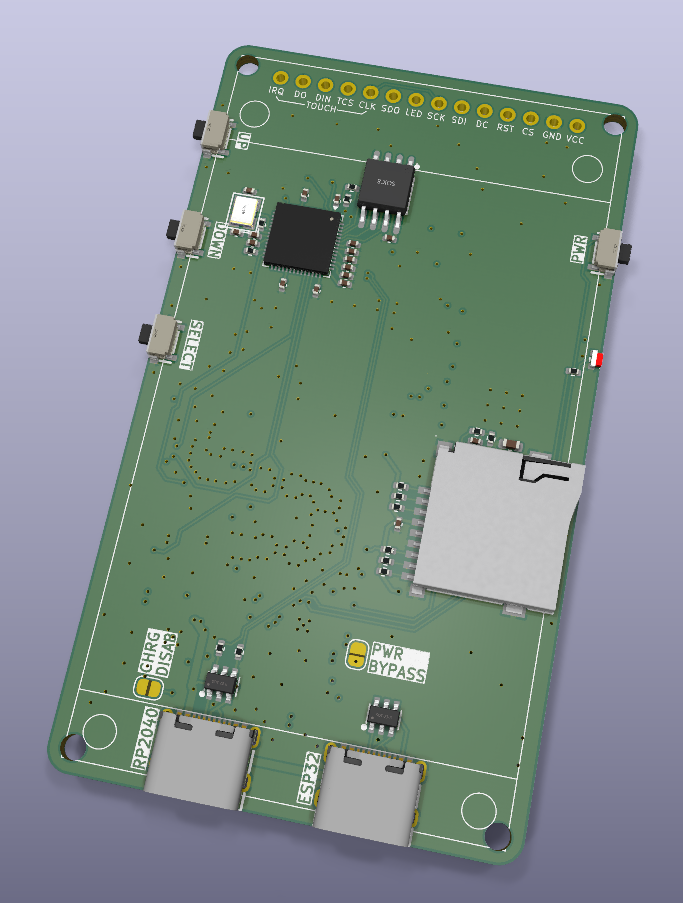
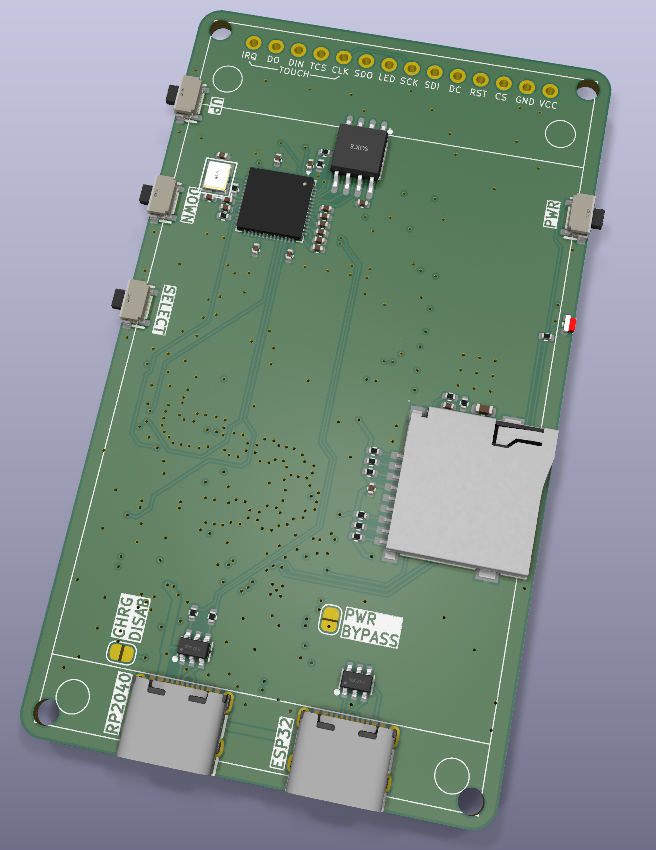
done?

diff --git a/README.md b/README.md
@@ -17,7 +17,7 @@ The RFly One has a 2.4" TFT display to show nearby air traffic on an offline map
 ### Features
 * **Awareness Protocols:** ADS-B, FLARM AIR V7, OGNTP, FANET+, RemoteID
 * **Positioning:** GNSS, Gyro, Accelerometer, Magnetometer
-* **Storage:** MicroSD Card (For offline maps)
+* **Storage:** MicroSD Card (For offline maps and flight logging)
 * **Charging:** 2A Max
 
 ### Hardware
@@ -31,18 +31,41 @@ The RFly One has a 2.4" TFT display to show nearby air traffic on an offline map
 * **Display:** 2.4" TFT
 
 ## Pinout
-| Header | Pin name | MCU Pin | Description |
+| Feature | Pin name | ESP32 Pin | Description |
 |---|---|---|---|
-| **[PLACEHOLDER]** | `[PLACEHOLDER]` | `[PLACEHOLDER]` | `[PLACEHOLDER]` |
-| **[PLACEHOLDER]** | `[PLACEHOLDER]` | `[PLACEHOLDER]` | `[PLACEHOLDER]` |
-| **[PLACEHOLDER]** | `[PLACEHOLDER]` | `[PLACEHOLDER]` | `[PLACEHOLDER]` |
-
+| **LCD** | `LCD_MOSI` | `GPIO 42` | SPI MOSI |
+| | `LCD_MISO` | `GPIO 39` | SPI MISO |
+| | `LCD_SCK` | `GPIO 41` | SPI Clock |
+| | `LCD_CS` | `GPIO 44` | SPI Chip Select |
+| | `LCD_LED` | `GPIO 40` | Backlight Control |
+| | `LCD_CMD` | `GPIO 43` | LCD Command |
+| **IMU** | `SDA` | `GPIO 36` | I2C Data |
+| | `SCL` | `GPIO 35` | I2C Clock |
+| **SD Card** | `SDIO_DAT0` | `GPIO 9` | Data 0 |
+| | `SDIO_DAT1` | `GPIO 8` | Data 1 |
+| | `SDIO_DAT2` | `GPIO 12` | Data 2 |
+| | `SDIO_DAT3` | `GPIO 13` | Data 3 |
+| | `SDIO_CMD` | `GPIO 11` | SD Command |
+| | `SDIO_CD` | `GPIO 7` | SD Detect |
+| | `SDIO_CLK` | `GPIO 10` | SD Clock |
+| **LoRa Radio** | `LORA_MOSI` | `GPIO 2` | SPI MOSI |
+| | `LORA_MISO` | `GPIO 1` | SPI MISO |
+| | `LORA_SCK` | `GPIO 4` | SPI Clock |
+| | `LORA_CE` | `GPIO 5` | SPI Chip Enable |
+| | `LORA_BUSY` | `GPIO 16` | Radio Busy |
+| **GNSS Module** | `GNSS_TX` | `GPIO 15` | UART RX |
+| | `GNSS_RX` | `GPIO 14` | UART TX |
+| | `PPS` | `GPIO 17` | GNSS Time |
+| **Button/Power Control** | `CH32_TX` | `GPIO 21` | UART RX |
+| | `CH32_RX` | `GPIO 18` | UART TX |
+| | `BATT_ADC` | `GPIO 6` | ADC1 |
+| **ADSB Decoder** | `RP_TX` | `GPIO 47` | UART RX |
+| | `RP_RX` | `GPIO 48` | UART TX |
+| | `ADSB_CLK` | `GPIO 34` | Extracted Clock From ADSB Signal |
 
 ----
 
 ## Hardware Overview
-
-### RFly One Mainboard
 ![image](assets/Schematic.png)
 <img src="assets/LayoutL1.png" width="300">
 <img src="assets/LayoutL2.png" width="300">
@@ -51,24 +74,28 @@ The RFly One has a 2.4" TFT display to show nearby air traffic on an offline map
 
 ----
 
-## Firmware Compilation & Flashing
-
-> [!IMPORTANT]
-> The software build process relies on separate firmware targets for the RP2040 (handling UI, Map rendering, and ADS-B decoding) and the CH32V003 (handling power state and buttons). 
+## Firmware
 
 ### Building the RP2040 Firmware
-1. `[PLACEHOLDER - Clone repository instructions]`
-2. `[PLACEHOLDER - CMake and build instructions]`
-3. `[PLACEHOLDER - Output file location]`
+1. Clone [this repository](https://github.com/YeetTheAnson/RFly-One) and enter the directory `cd RFly-One`
+2. Open the `/firmware/source/rp2040.ino` file in ArduinoIDE
+3. Paste `https://github.com/earlephilhower/arduino-pico/releases/download/global/package_rp2040_index.json` into `File > Preferences > Additional boards manager URLs`
+4. Go to boards manager and install `Raspberry Pi Pico/RP2040/RP2350` by Earle F. Philhower, III
+5. Click the upload button or `Sketch > Export Compiled Binary`
 
 ### Building the CH32V003 Firmware
-1. `[PLACEHOLDER - Clone repository instructions]`
-2. `[PLACEHOLDER - Toolchain requirements]`
-3. `[PLACEHOLDER - Build commands]`
+1. Clone [this repository](https://github.com/YeetTheAnson/RFly-One) and enter the directory `cd RFly-One`
+2. Open the `/firmware/source/ch32v003.ino` file in ArduinoIDE
+3. Paste `https://alexandermandera.github.io/arduino-wch32v003/package_ch32v003_index.json` into `File > Preferences > Additional boards manager URLs`
+4. Go to boards manager and install `WCH Boards` by Alexander Mandera
+5. Click the upload button or `Sketch > Export Compiled Binary`
 
-### Flashing the Device
-1. **RP2040:** `[PLACEHOLDER - BOOTSEL instructions for UF2 drag-and-drop]`
-2. **CH32V003:** `[PLACEHOLDER - WCH-LinkE or SWD flashing instructions]`
+### Building the ESP32S3 Firmware
+1. Clone [this repository](https://github.com/YeetTheAnson/RFly-One) and enter the directory `cd RFly-One`
+2. Open the `/firmware/source/esp32.ino` file in ArduinoIDE
+3. Paste `https://espressif.github.io/arduino-esp32/package_esp32_index.json` into `File > Preferences > Additional boards manager URLs`
+4. Go to boards manager and install `ESP32` by Espressif
+5. Click the upload button or `Sketch > Export Compiled Binary`
 
 ----
 
@@ -84,6 +111,11 @@ The RFly One has a 2.4" TFT display to show nearby air traffic on an offline map
 * **Fasteners:** 4x M2 10mm Self Tapping Screws
 * **Battery:** Generic 500mAh LiPo battery (Size of battery is your choice)
 * **SD Card:** Generic micro SD Card
+* **Antennae:**
+    - 2x 2400MHz FPC Antenna
+    - 1x 1090MHz FPC Antenna
+    - 1x 900MHz FPC Antenna
+    - 1x Active GPS Ceramic Antenna
 
 ### Assembly Instructions
 1. Slide the 3d printed parts `TopCase1.stl` and `TopCase2.stl` into place underneath the TFT LCD board.
@@ -93,7 +125,7 @@ The RFly One has a 2.4" TFT display to show nearby air traffic on an offline map
 
 2. Attach the battery using double sided adhesives and solder the battery cable onto the dedicated pad. Then connect the 2.4GHz WiFi antenna, 2.4GHz LoRa antenna, 1090MHz ADSB antenna and 900MHz LoRa antenna, and secure the FPC antennae to `BottomCase.stl` using double sided adhesives.
 
-<img src="assets/step2a.png" width="300">
+<img src="assets/step2.png" width="300">
 
 3. Feed the GNSS antenana cable through the `BottomCase.stl` cutout and glue the antenna to the bottom case. Then connect the GNSS antenna connector to the PCB and close the case.
 
@@ -110,14 +142,53 @@ The RFly One has a 2.4" TFT display to show nearby air traffic on an offline map
 
 | Category | Item Name | Description | Link | Vendor | Quantity | Total Price (USD) |
 |---|---|---|---|---|---:|---:|
-| Core MCU | RP2040 | Main coprocessor | `[PLACEHOLDER]` | `[PLACEHOLDER]` | 1 | `[PLACEHOLDER]` |
-| Core MCU | CH32V003 | Power management MCU | `[PLACEHOLDER]` | `[PLACEHOLDER]` | 1 | `[PLACEHOLDER]` |
-| Radio | E80-900M2212S | LR2021 LoRa module | `[PLACEHOLDER]` | `[PLACEHOLDER]` | 1 | `[PLACEHOLDER]` |
-| Location | ATGM332D-5N31 | GNSS Module | `[PLACEHOLDER]` | `[PLACEHOLDER]` | 1 | `[PLACEHOLDER]` |
-| Sensor | BMI270 | IMU | `[PLACEHOLDER]` | `[PLACEHOLDER]` | 1 | `[PLACEHOLDER]` |
-| Sensor | MMC5983MA | Magnetometer | `[PLACEHOLDER]` | `[PLACEHOLDER]` | 1 | `[PLACEHOLDER]` |
-| Display | 2.4" TFT | SPI Display | `[PLACEHOLDER]` | `[PLACEHOLDER]` | 1 | `[PLACEHOLDER]` |
-| Power | bq25606 | Charge controller | `[PLACEHOLDER]` | `[PLACEHOLDER]` | 1 | `[PLACEHOLDER]` |
-| Power | `[PLACEHOLDER]` | 3.3V Buck Converter | `[PLACEHOLDER]` | `[PLACEHOLDER]` | 1 | `[PLACEHOLDER]` |
-| Power | `[PLACEHOLDER]` | 5V Boost Converter | `[PLACEHOLDER]` | `[PLACEHOLDER]` | 1 | `[PLACEHOLDER]` |
-| RF Frontend | `[PLACEHOLDER]` | LNAs and SAW Filters | `[PLACEHOLDER]` | `[PLACEHOLDER]` | 1 | `[PLACEHOLDER]` |
+| PCB Components | CL10A106MA8NRNC | 10uF 0603 capacitor | [link](https://www.lcsc.com/product-detail/C96446.html) | LCSC | 20 | 1.52 |
+| PCB Components | AO3401A | P channel MOSFET | [link](https://www.lcsc.com/product-detail/C15127.html) | LCSC | 5 | 0.51 |
+| PCB Components | GRM1555C1H101JA01D | 100pF 0402 capacitor | [link](https://www.lcsc.com/product-detail/C77177.html) | LCSC | 50 | 0.55 |
+| PCB Components | GJM1555C1H3R0BB01D | 3pF 0402 capacitor | [link](https://www.lcsc.com/product-detail/C88891.html) | LCSC | 50 | 0.86 |
+| PCB Components | CC0402JRNPO9BN201 | 200pF 0402 capacitor | [link](https://www.lcsc.com/product-detail/C325462.html) | LCSC | 50 | 0.45 |
+| PCB Components | CC0402KRX7R9BB102 | 1nF 0402 capacitor | [link](https://www.lcsc.com/product-detail/C106205.html) | LCSC | 100 | 0.23 |
+| PCB Components | CC0402JRNPO9BN150 | 15pF 0402 capacitor | [link](https://www.lcsc.com/product-detail/C106997.html) | LCSC | 100 | 0.20 |
+| PCB Components | CL21A226MOQNNNE | 22uF 0805 capacitor | [link](https://www.lcsc.com/product-detail/C98190.html) | LCSC | 10 | 1.06 |
+| PCB Components | RClamp3361P-ES | 0.25pF DFN1006 TVS diode | [link](https://www.lcsc.com/product-detail/C22464622.html) | LCSC | 5 | 0.60 |
+| PCB Components | 0402L020/6SR | 200mA 0402 PTC Fuse | [link](https://www.lcsc.com/product-detail/C53280164.html) | LCSC | 10 | 0.71 |
+| PCB Components | LQW15CN77NJ10D | 77nH 0402 inductor | [link](https://www.lcsc.com/product-detail/C668466.html) | LCSC | 10 | 0.88 |
+| PCB Components | LQG15HS10NJ02D | 10nH 0402 inductor | [link](https://www.lcsc.com/product-detail/C77103.html) | LCSC | 50 | 0.93 |
+| PCB Components | RC0402FR-0727RL | 27R 0402 resistor | [link](https://www.lcsc.com/product-detail/C138021.html) | LCSC | 100 | 0.40 |
+| PCB Components | RC0402FR-0745K3L | 45.3k 0402 resistor | [link](https://www.lcsc.com/product-detail/C137977.html) | LCSC | 100 | 0.17 |
+| PCB Components | FRC0402F2701TS | 2.7k 0402 resistor | [link](https://www.lcsc.com/product-detail/C2909332.html) | LCSC | 100 | 0.19 |
+| PCB Components | FRC0402F1600TS | 160R 0402 resistor | [link](https://www.lcsc.com/product-detail/C2933075.html) | LCSC | 100 | 0.18 |
+| PCB Components | FRC0402F3300TS | 330R 0402 resistor | [link](https://www.lcsc.com/product-detail/C2930002.html) | LCSC | 100 | 0.22 |
+| PCB Components | FRC0402F7322TS | 73.2k 0402 resistor | [link](https://www.lcsc.com/product-detail/C2998163.html) | LCSC | 100 | 0.19 |
+| PCB Components | 0402WGF7501TCE | 7.5k 0402 resistor | [link](https://www.lcsc.com/product-detail/C25918.html) | LCSC | 100 | 0.22 |
+| PCB Components | ABM8-272-T3 | 12MHz 10pF 3225 crystal | [link](https://www.lcsc.com/product-detail/C20625731.html) | LCSC | 1 | 0.63 |
+| PCB Components | ATGM332D-5N31 | GNSS module | [link](https://www.lcsc.com/product-detail/C128659.html) | LCSC | 1 | 3.58 |
+| PCB Components | BMI270 | IMU | [link](https://www.lcsc.com/product-detail/C2836813.html) | LCSC | 2 | 5.75 |
+| PCB Components | BQ25606RGER | Battery charge controller | [link](https://www.lcsc.com/product-detail/C374063.html) | LCSC | 1 | 1.64 |
+| PCB Components | MMC5983MA | Magnetometer | [link](https://www.lcsc.com/product-detail/C404329.html) | LCSC | 1 | 2.28 |
+| PCB Components | RT9193-33GB | 3.3V LDO regulator | [link](https://www.lcsc.com/product-detail/C15651.html) | LCSC | 5 | 0.69 |
+| PCB Components | TA0970A | 1090MHz SAW filter | [link](https://www.lcsc.com/product-detail/C7115531.html) | LCSC | 2 | 3.09 |
+| PCB Components | TLV3201AIDBVR | Comparator | [link](https://www.lcsc.com/product-detail/C105188.html) | LCSC | 1 | 0.98 |
+| PCB Components | TPS61023DRLR | Boost converter | [link](https://www.lcsc.com/product-detail/C919459.html) | LCSC | 5 | 1.24 |
+| PCB Components | TPS7A0230PDBVR | ULC 3V LDO regulator | [link](https://www.lcsc.com/product-detail/C3747031.html) | LCSC | 1 | 0.45 |
+| PCB Components | TQP3M9036 | LNA | [link](https://www.lcsc.com/product-detail/C920261.html) | LCSC | 2 | 6.29 |
+| PCB Components | TXU0202DTTR | Logic level translator | [link](https://www.lcsc.com/product-detail/C18197534.html) | LCSC | 2 | 1.62 |
+| PCB Components | W25Q128JVSIQ | 128Mb 16MB NOR flash | [link](https://www.lcsc.com/product-detail/C97521.html) | LCSC | 1 | 2.58 |
+| PCB Components | ESP32-S3-MINI-1U-N4R2 | Main processor | [link](https://www.lcsc.com/product-detail/C22356044.html) | LCSC | 1 | 4.61 |
+| PCB Components | RP2040 | ADSB decoder coprocessor | [link](https://www.lcsc.com/product-detail/C2040.html) | LCSC | 1 | 1.00 |
+| PCB Components | LCSC Shipping | 4PX | - | LCSC | 1 | 4.71 |
+| PCB | PCB | 4 layer bare PCB | - | JLCPCB | 1 | 8.00 |
+| PCB | JLCPCB Shipping | E-POST | - | JLCPCB | 1 | 5.78 |
+| PCB Components | E80-900M2213S | LR2021 LoRA module | [link](https://www.aliexpress.com/item/1005012863308600.html) | AliExpress | 1 | 8.69 |
+| PCB Components | AD8313ARMZ | RF logarithmic power detector | [link](https://www.aliexpress.com/item/1005009749065916.html) | AliExpress | 1 | 3.31 |
+| PCB Components | AliExpress Shipping | AliExpress Shipping | - | AliExpress | 1 | 5.79 |
+| Parts | 2.4" TFT LCD | 2.4" TFT LCD | [link](https://shopee.com.my/TFT-Display-0.96-1.3-1.44-1.77-1.8-2.4-2.8-inch-IPS-7P-SPI-HD-65K-TFT-Full-Color-LCD-Module-ST7735-Drive-IC-80*160-For-Arduino-i.299149454.21474104300) | Shopee | 1 | 4.35 |
+| Parts | UWB 700-2700MHz antenna large | For 1090MHz ADSB receiver | [link](https://shopee.com.my/Gsm-3G-4G-LTE-5G-nb-iot-iot-Module-Signal-Enhancement-FPC-PCB-Built-in-Patch-Antenna-i.419312080.27871596372) | Shopee | 1 | 0.70 |
+| Parts | UWB 700-2700MHz antenna small | For 900MHz LoRa transceiver | [link](https://shopee.com.my/Gsm-3G-4G-LTE-5G-nb-iot-iot-Module-Signal-Enhancement-FPC-PCB-Built-in-Patch-Antenna-i.419312080.27871596373) | Shopee | 1 | 0.65 |
+| Parts | 2.4GHz antenna | For ESP32 WiFi/BT and LoRa | [link](https://shopee.com.my/2.4g-5g-5.8g-Dual-Band-Antenna-Built-in-FPC-Soft-Board-Antenna-wifi-Bluetooth-PCB-Patch-ipex-Antenna-i.419312080.27171149912) | Shopee | 2 | 0.95 |
+| Parts | Shopee Shipping | SPX Express | - | Shopee | 2 | 2.60 |
+
+- **PCB Components Total:** $69.00
+- **PCB Total:** $13.78
+- **Parts Total:** $9.25
+### **Grand Total:** $92.03
